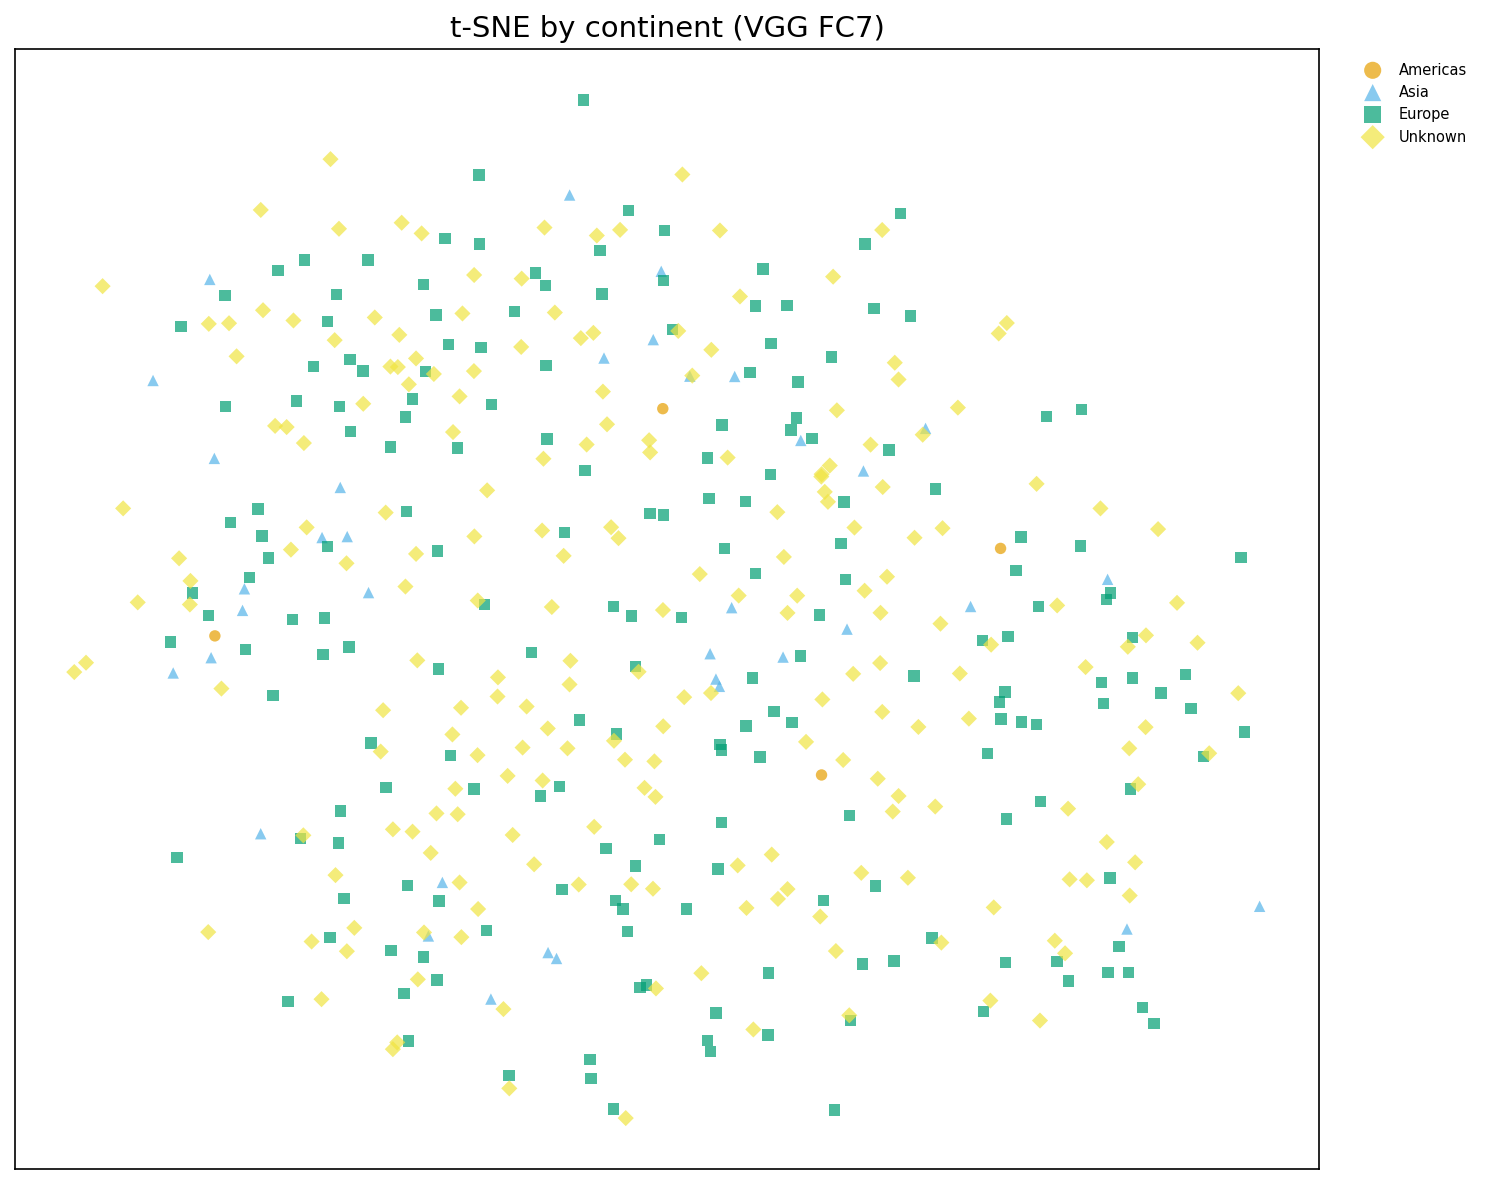
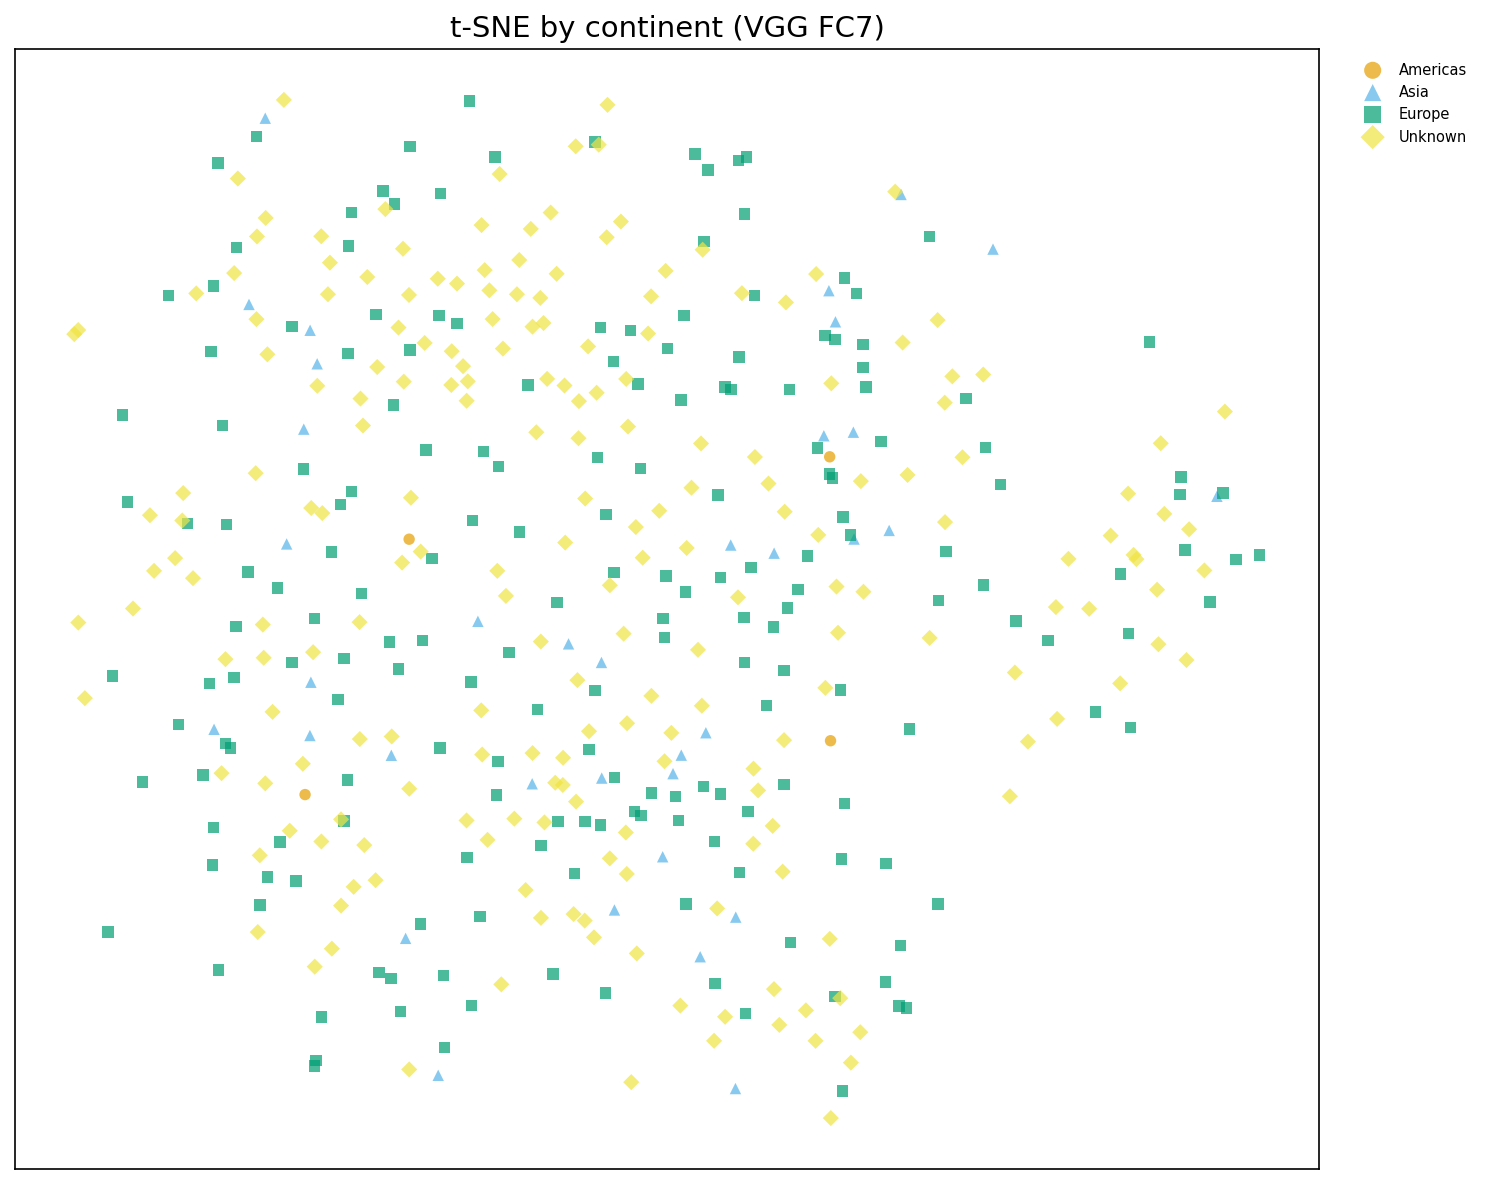
Rewrite README with pipeline focus and Mermaid diagram
Fresh results from corrected VGG extraction (512x512, pre-ReLU FC7,
proper Gram computation). VGG sigma_c matches paper exactly (0.283),
max AMI 0.190 vs paper 0.191.

Adds cover image, cleans up orphaned step4_distances.py, and updates
all result CSVs and t-SNE plots.

diff --git a/README.md b/README.md
@@ -1,63 +1,101 @@
 # contempart-eccv2020
 
-Reproduction of the analysis from:
+A clean, end-to-end reproduction pipeline for the analysis in:
 
 > Huckle, N., Garcia, N., & Nakashima, Y. (2020). *contempArt: A Multi-Modal Dataset of Contemporary Artworks and Socio-Demographic Data.* ECCV Workshop on Computer Vision for Fashion, Art and Design. [arXiv:2008.09558](https://arxiv.org/abs/2008.09558)
 
-See also: [contempart](https://github.com/georgeblck/contempart) (dataset) and [contempart-clip](https://github.com/georgeblck/contempart-clip) (re-analysis with CLIP/SD embeddings).
+![t-SNE visualization of ~14,400 artworks from the contempArt dataset](docs/cover.jpg)
 
-## What this repo does
+See also: [contempart-dataset](https://github.com/georgeblck/contempart-dataset) (dataset + metadata) and [contempart-clip](https://github.com/georgeblck/contempart-clip) (re-analysis with CLIP and Stable Diffusion embeddings).
 
-Reproduces every table and figure from the paper using the original pre-computed embeddings. The goal is to verify the published results and make the analysis transparent and auditable.
+## Goal
 
-All results are reproduced from the original VGG FC7, Gram+SVD Texture, and Archetype embeddings computed in 2020. No features are re-extracted from images.
-
-## Reproduction status
-
-| Paper element | Script | Status | Match? |
-|---------------|--------|--------|--------|
-| Table 2 (style variance) | step5_variance.py | reproduced | sigma_c_global exact, sigma_c within 3% |
-| Table 3 (style vs social network) | step6_correlations.py | reproduced | G^U matches to 3 decimal places |
-| Figure 4 (WikiArt AMI/purity) | step8_cluster.py | reproduced | max AMI 0.191 matches paper |
-| Figure 3 (t-SNE by school) | step7_visualize.py | reproduced | no visible school clustering, consistent with paper |
-| Section 6.2 (association tests) | step9_association.py | reproduced | small Cramer's V (0.09-0.15), all significant but tiny |
+Provide a transparent, auditable pipeline that goes from raw images to every table and figure in the paper. No manual steps, no pre-computed artifacts required. A student or researcher should be able to clone this repo, point it at the images, and reproduce the full analysis.
 
 ## Pipeline
+
+```mermaid
+flowchart LR
+    A["Images\n+ metadata"] --> B["Step 1\nVGG-19 extraction"]
+    B --> C["FC7 features\n4,096-dim"]
+    B --> D["Gram texture\n4,096-dim"]
+    D --> E["Step 3\nArchetypal analysis"]
+    A --> F["Step 4\nnode2vec"]
+    C & D & E & F --> G["Steps 5-9\nTables, figures,\nassociation tests"]
+```
+
+### Running it
 
 ```bash
 uv sync
 
-uv run python -m src.step0_data              # verify data completeness
-uv run python -m src.step5_variance            # Table 2: style variance
-uv run python -m src.step6_correlations        # Table 3: style vs social network
-uv run python -m src.step7_visualize           # Figure 3: t-SNE plots
-uv run python -m src.step8_cluster             # Figure 4: WikiArt clustering (~45 min)
-uv run python -m src.step9_association         # Section 6.2: Cramer's V tests
+# Feature extraction (~5h CPU, <1h CUDA)
+uv run python -m src.step1_extract_vgg
+
+# Archetypal analysis (~5 min)
+uv run python -m src.step3_archetype
+
+# Social graph + node2vec (~1 min)
+uv run python -m src.step4_network
+
+# Analysis (each <1 min, except step8 ~30 min)
+uv run python -m src.step5_variance
+uv run python -m src.step6_correlations
+uv run python -m src.step7_visualize
+uv run python -m src.step8_cluster
+uv run python -m src.step9_association
 ```
+
+Step 1 supports checkpointing (resumes after interruption) and memory-mapped arrays (runs safely with limited RAM). Use `--limit 100` for a quick test run.
+
+## What each step does
+
+| Step | Script | Paper section | Output |
+|------|--------|---------------|--------|
+| 1 | `step1_extract_vgg.py` | p.7-8 | VGG-19 FC7 features + Gram texture descriptors |
+| 3 | `step3_archetype.py` | p.8-9 | Archetypal analysis mixture weights |
+| 4 | `step4_network.py` | p.12-13 | Social graph distance matrices via node2vec |
+| 5 | `step5_variance.py` | Table 2 | Per-artist and global style variance (sigma_c) |
+| 6 | `step6_correlations.py` | Table 3 | Spearman rho between style and social distances |
+| 7 | `step7_visualize.py` | Figure 3 | t-SNE of artist centroids by school/gender/continent |
+| 8 | `step8_cluster.py` | Figure 4 | k-means AMI and purity on WikiArt styles |
+| 9 | `step9_association.py` | Section 6.2 | Cramer's V between VGG clusters and demographics |
 
 ## Data
 
-Download the pre-computed artifacts from [Zenodo](https://doi.org/10.5281/zenodo.19367364) and extract into `data/`:
+Place the following in `data/` before running:
 
 ```
 data/
-  artists.csv                              <- artist metadata (442 rows)
-  images_manifest.csv                      <- image manifest (14,559 rows)
-  graph_gu_node2vec.csv                    <- G^U node2vec embeddings (364 artists)
-  wikiart_metadata.csv                     <- WikiArt sample metadata (20,000 rows)
-  embeddings/
-    vgg_fc7.npy                            <- VGG FC7 (14,559 x 4,096)
-    texture_gram_svd.npy                   <- Gram+SVD texture (14,559 x 4,096)
-    archetype_m36.npy                      <- Archetype M=36 (14,559 x 72)
-    wikiart_vgg_fc7.npy                    <- WikiArt VGG FC7 (20,000 x 4,096)
-    wikiart_texture_gram_svd.npy           <- WikiArt Gram+SVD (20,000 x 4,096)
-    wikiart_archetype_m35.npy              <- WikiArt Archetype M=35 (20,000 x 70)
-  distances/
-    gu_node2vec_cosine.npy                 <- G^U cosine distance (364 x 364)
-    gy_node2vec_cosine.npy                 <- G^Y cosine distance (364 x 364)
+  contempart_images/           <- 14,559 artwork images
+  wikiart_images/              <- 20,000 WikiArt images
+  artists.csv                  <- artist metadata (442 rows)
+  images_manifest.csv          <- image-to-artist mapping (14,559 rows)
+  edgelist.csv                 <- Instagram follower graph
+  wikiart_metadata.csv         <- WikiArt sample metadata (20,000 rows)
 ```
 
-## Notes
+Download the contempArt dataset from [Zenodo](https://doi.org/10.5281/zenodo.19365430). Pre-computed embeddings are also available on [Zenodo](https://doi.org/10.5281/zenodo.19367364) if you want to skip feature extraction.
 
-- The paper reports 442 artists and 14,559 images. The public [contempart dataset](https://github.com/georgeblck/contempart) contains 441 artists and 14,398 images (1 artist lost, 2 images with encoding issues). The pre-computed embeddings used here contain the full 442/14,559.
-- See [results/inventory.md](results/inventory.md) for a complete mapping of every artifact to its file location.
+## Reproduction notes
+
+VGG FC7 results match the paper exactly (sigma_c = 0.283, max AMI = 0.190 vs paper's 0.191). Texture values are close, with small differences from SVD randomization. Archetype values differ more because this pipeline uses [py_pcha](https://github.com/elaa0505/py_pcha) (Python) instead of SPAMS (C++), and the two solvers find different local optima. The qualitative conclusions are the same across all three embedding types.
+
+### Feature extraction details
+
+VGG-19 features are extracted at 512x512 resolution (LANCZOS interpolation), matching the original pipeline. FC7 comes from the second fully connected layer pre-ReLU (preserving negative activations). Gram texture features concatenate spatial means and Gram matrix upper triangles from conv layers 2-5, normalized by channel count, then reduced to 4,096 dimensions via TruncatedSVD.
+
+CUDA is used when available. MPS (Apple Silicon) is not supported due to a PyTorch limitation with adaptive pooling at non-standard input sizes.
+
+## Citation
+
+```bibtex
+@inproceedings{huckle2020contempart,
+  title={contempArt: A Multi-Modal Dataset of Contemporary Artworks
+         and Socio-Demographic Data},
+  author={Huckle, Nikolai and Garcia, Noa and Nakashima, Yuta},
+  booktitle={European Conference on Computer Vision,
+             Workshop on Computer Vision for Fashion, Art and Design},
+  year={2020}
+}
+```
